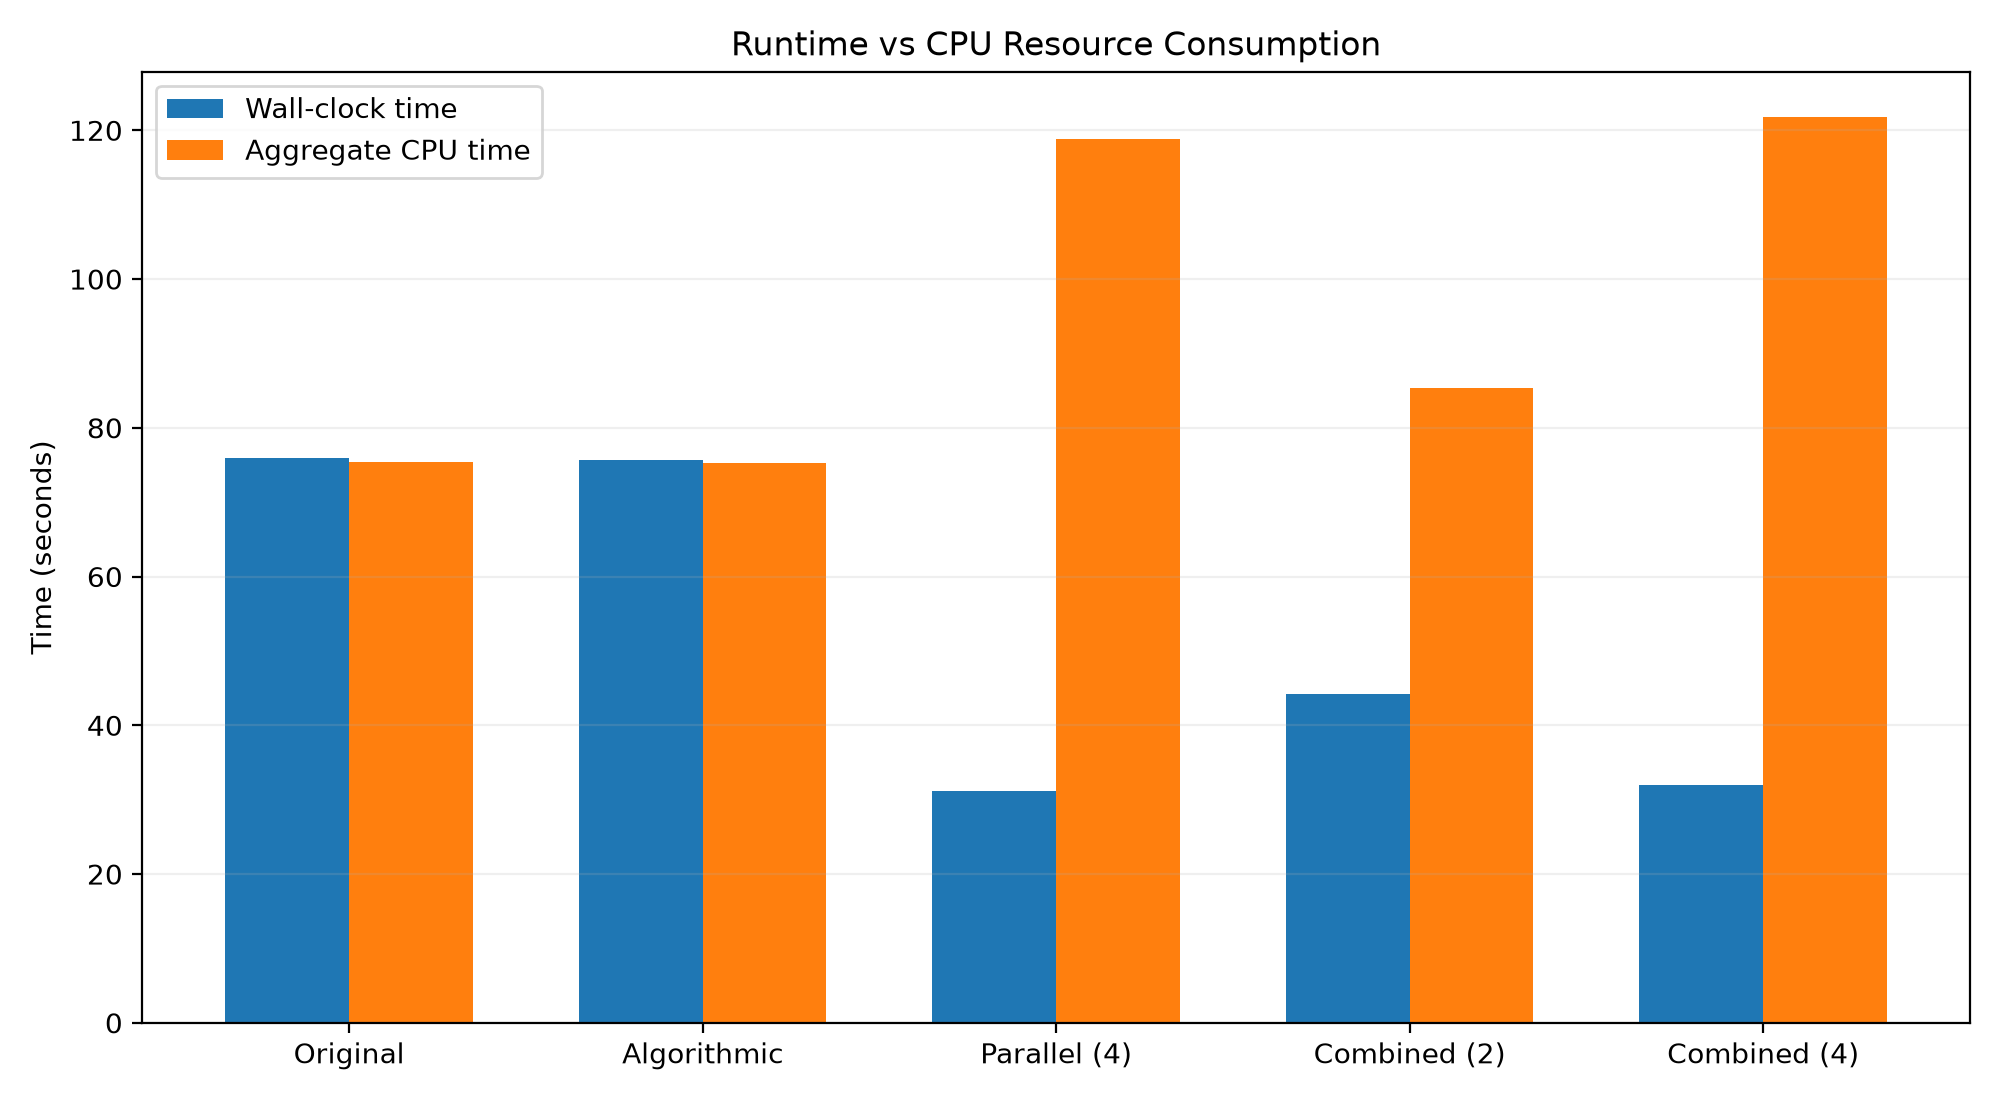
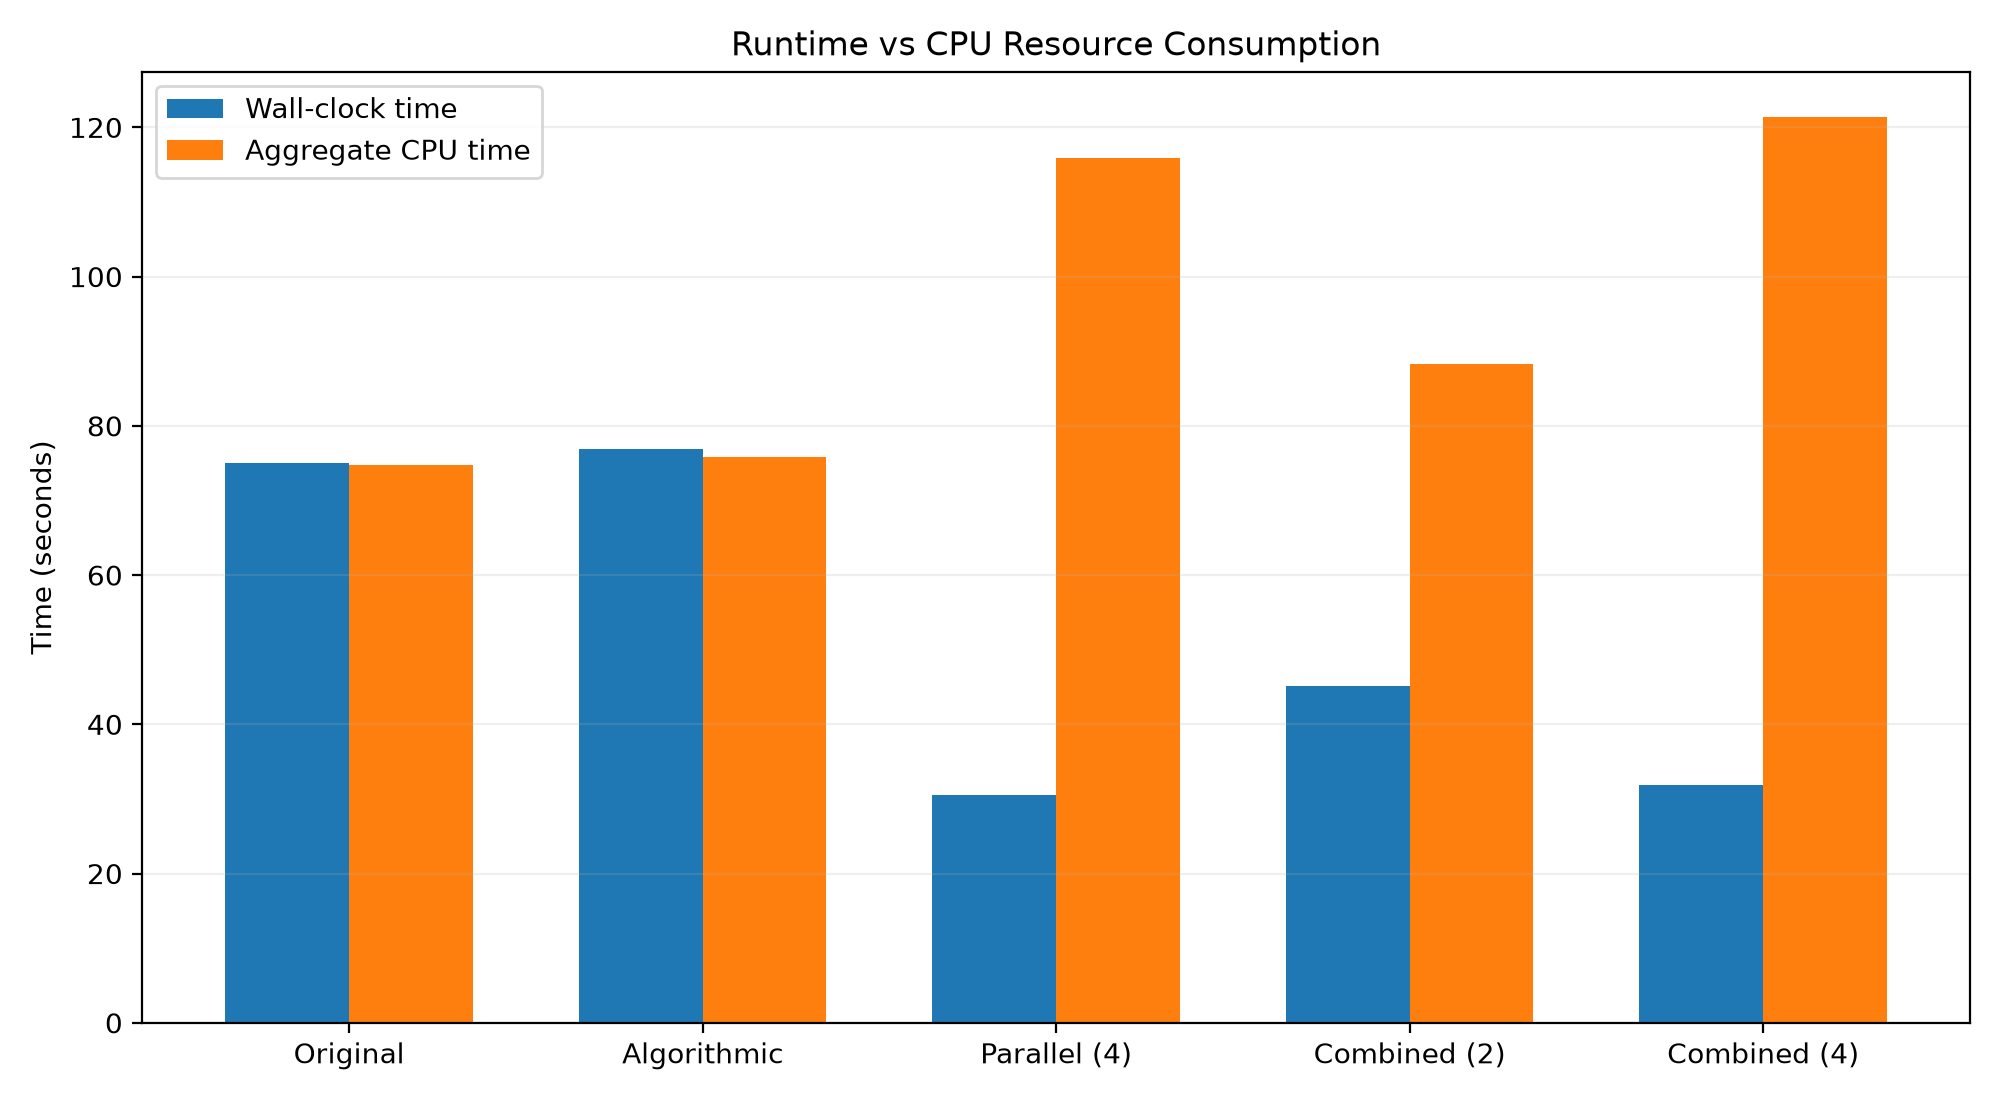
Fix combined lambda precomputation and finalize benchmarks

diff --git a/src/parallel.py b/src/parallel.py
@@ -44,6 +44,7 @@ def run_scenario(task):
             y=data["y"],
             k=k,
             sigma=sigma,
+            lam=lam,
         )
 
         success = exact_recovery(

diff --git a/README.md b/README.md
@@ -263,11 +263,11 @@ It was benchmarked three times using the same Python environment and numerical-l
 
 | Run | Wall-clock Runtime |
 |---|---:|
-| 1 | 77.36 s |
-| 2 | 75.58 s |
-| 3 | 75.87 s |
+| 1 | 74.75 s |
+| 2 | 75.07 s |
+| 3 | 76.88 s |
 
-**Median original baseline runtime: 75.87 seconds.**
+**Median original baseline runtime: 75.07 seconds.**
 
 These measurements cover the full simulation stage, not the subsequent analysis and figure-generation stages.
 
@@ -279,11 +279,11 @@ All configurations used the same Python environment, simulation design, master s
 
 | Configuration | Median Real (s) | Median CPU (s) | Speedup |
 |---|---:|---:|---:|
-| Original Serial | 75.87 | 75.42 | 1.000x |
-| Algorithmic-only | 75.73 | 75.23 | 1.002x |
-| Parallel-only (4 workers) | 31.19 | 118.88 | 2.433x |
-| Combined (2 workers) | 44.20 | 85.31 | 1.717x |
-| Combined (4 workers) | 31.93 | 121.75 | 2.376x |
+| Original Serial | 75.07 | 74.78 | 1.000x |
+| Algorithmic-only | 76.83 | 75.80 | 0.977x |
+| Parallel-only (4 workers) | 30.50 | 115.86 | 2.461x |
+| Combined (2 workers) | 45.10 | 88.25 | 1.665x |
+| Combined (4 workers) | 31.87 | 121.35 | 2.356x |
 
 Speedup is calculated as:
 
@@ -293,20 +293,20 @@ Speedup is calculated as:
 {\text{Optimized median runtime}}
 \]
 
-The combined four-worker implementation reduced the median wall-clock runtime from **75.87 to 31.93 seconds**.
+The combined four-worker implementation reduced the median wall-clock runtime from **75.07 to 31.87 seconds**.
 
 This corresponds to:
 
-- **2.38x speedup**
-- **57.9% reduction in elapsed runtime**
+- **2.36x speedup**
+- **57.5% reduction in elapsed runtime**
 
 Parallelization was the primary source of performance improvement.
 
-Lambda precomputation alone reduced median runtime from 75.87 to 75.73 seconds, an observed difference of only approximately 0.2%.
+Algorithmic-only execution had a median runtime of 76.83 seconds versus 75.07 seconds for the original. The observed 2.3% increase does not establish a systematic slowdown or a meaningful speedup.
 
 This small difference does not establish a meaningful standalone performance improvement.
 
-The parallel-only four-worker configuration had a slightly lower observed median runtime than the combined four-worker configuration. However, the difference is small relative to run-to-run variability, and the experiments were not fully randomized.
+The parallel-only four-worker configuration had a lower observed median runtime than the combined four-worker configuration (30.50 versus 31.87 seconds). However, the difference is small relative to run-to-run variability, and the experiments were not fully randomized.
 
 Consequently, the measurements do not establish that lambda precomputation negatively affects parallel performance.
 
@@ -332,14 +332,14 @@ Aggregate CPU time is computed as `user + sys` for each run.
 
 | Configuration | Median Wall-clock (s) | Median CPU Time (s) |
 |---|---:|---:|
-| Original Serial | 75.87 | 75.42 |
-| Combined (2 workers) | 44.20 | 85.31 |
-| Combined (4 workers) | 31.93 | 121.75 |
+| Original Serial | 75.07 | 74.78 |
+| Combined (2 workers) | 45.10 | 88.25 |
+| Combined (4 workers) | 31.87 | 121.35 |
 
 Compared with the original serial version:
 
-- **Two workers:** 41.7% shorter wall-clock time and approximately 13.1% more aggregate CPU time.
-- **Four workers:** 57.9% shorter wall-clock time and approximately 61.4% more aggregate CPU time.
+- **Two workers:** 39.9% shorter wall-clock time and approximately 18.0% more aggregate CPU time.
+- **Four workers:** 57.5% shorter wall-clock time and approximately 62.3% more aggregate CPU time.
 
 ![CPU resource trade-off](results/figures/controlled_cpu_tradeoff.png)
 
@@ -353,8 +353,8 @@ where \(T_1\) is the original serial median runtime and \(T_p\) is the median ru
 
 | Configuration | Speedup | Parallel Efficiency |
 |---|---:|---:|
-| Combined (2 workers) | 1.717x | 85.8% |
-| Combined (4 workers) | 2.376x | 59.4% |
+| Combined (2 workers) | 1.665x | 83.2% |
+| Combined (4 workers) | 2.356x | 58.9% |
 
 Four workers provided faster completion, whereas two workers provided better parallel efficiency and lower aggregate CPU consumption.
 
@@ -533,9 +533,9 @@ These exploratory results are not the primary basis for the final reported speed
 
 The project produced five main findings.
 
-1. **Parallelization provided the largest runtime improvement.** The combined four-worker implementation reduced median wall-clock runtime from 75.87 to 31.93 seconds, achieving approximately 2.38x speedup and a 57.9% reduction in elapsed time.
+1. **Parallelization provided the largest runtime improvement.** The combined four-worker implementation reduced median wall-clock runtime from 75.07 to 31.87 seconds, achieving approximately 2.36x speedup and a 57.5% reduction in elapsed time.
 
-2. **Algorithmic precomputation eliminated redundant work but produced negligible overall acceleration.** Lambda calculations decreased by 99.5%, while the controlled serial runtime remained approximately unchanged.
+2. **Algorithmic precomputation reduced redundant computation but did not demonstrate a meaningful end-to-end speedup.** Lambda calculations decreased by 99.5%, while the algorithmic-only median runtime was 76.83 seconds compared with 75.07 seconds for the original implementation. The observed difference does not establish a systematic performance slowdown.
 
 3. **Parallel execution introduced a resource trade-off.** The four-worker implementation completed the simulation fastest but required substantially greater aggregate CPU time. The two-worker version provided better parallel efficiency.
 

diff --git a/docs/OPTIMIZATION.md b/docs/OPTIMIZATION.md
@@ -224,11 +224,11 @@ Five configurations were evaluated:
 
 | Configuration | Median Real (s) | Mean Real (s) | Median CPU (s) | Speedup | Runtime Reduction |
 |---|---:|---:|---:|---:|---:|
-| Original | 75.87 | 76.270 | 75.42 | 1.000x | 0.0% |
-| Algorithmic-only | 75.73 | 75.727 | 75.23 | 1.002x | 0.2% |
-| Parallel-only (4) | 31.19 | 31.113 | 118.88 | 2.433x | 58.9% |
-| Combined (2) | 44.20 | 44.107 | 85.31 | 1.717x | 41.7% |
-| Combined (4) | 31.93 | 32.070 | 121.75 | 2.376x | 57.9% |
+| Original | 75.07 | 75.567 | 74.78 | 1.000x | 0.0% |
+| Algorithmic-only | 76.83 | 76.363 | 75.80 | 0.977x | -2.3% |
+| Parallel-only (4) | 30.50 | 30.477 | 115.86 | 2.461x | 59.4% |
+| Combined (2) | 45.10 | 45.260 | 88.25 | 1.665x | 39.9% |
+| Combined (4) | 31.87 | 31.980 | 121.35 | 2.356x | 57.5% |
 
 Speedup is defined as:
 
@@ -236,13 +236,13 @@ Speedup is defined as:
 S_p = \frac{T_{\mathrm{original}}}{T_p},
 \]
 
-where the original serial median runtime is 75.87 seconds.
+where the original serial median runtime is 75.07 seconds.
 
-The combined four-worker implementation achieved a 2.376x speedup, reducing median wall-clock runtime by approximately 57.9%.
+The combined four-worker implementation achieved a 2.356x speedup, reducing median wall-clock runtime by approximately 57.5%.
 
-Lambda precomputation alone produced only a 0.2% apparent runtime reduction, which is too small to establish a meaningful performance improvement.
+Algorithmic-only execution was 2.3% slower in observed median wall-clock time. This difference does not establish a systematic slowdown or a meaningful speedup.
 
-The parallel-only configuration achieved a slightly lower median runtime than the combined four-worker configuration (31.19 versus 31.93 seconds). This small difference does not establish that precomputation makes parallel execution slower.
+The parallel-only four-worker configuration achieved a lower observed median runtime than the corrected combined four-worker configuration (30.50 versus 31.87 seconds). However, the difference is small relative to run-to-run variability and does not establish a reliable additional speedup from lambda precomputation.
 
 The experiments were conducted sequentially rather than fully randomized. Consequently, temperature, operating-system scheduling, and background activity may have influenced the measurements.
 
@@ -281,14 +281,14 @@ Aggregate CPU time is calculated as `user + sys` for each run, followed by the m
 
 | Configuration | Median Wall Time (s) | Median CPU Time (s) |
 |---|---:|---:|
-| Original | 75.87 | 75.42 |
-| Combined (2 workers) | 44.20 | 85.31 |
-| Combined (4 workers) | 31.93 | 121.75 |
+| Original | 75.07 | 74.78 |
+| Combined (2 workers) | 45.10 | 88.25 |
+| Combined (4 workers) | 31.87 | 121.35 |
 
 Relative to the original serial implementation:
 
-- Two workers reduced median wall-clock time by 41.7%, while increasing aggregate CPU time by approximately 13.1%.
-- Four workers reduced median wall-clock time by 57.9%, while increasing aggregate CPU time by approximately 61.4%.
+- Two workers reduced median wall-clock time by 39.9%, while increasing aggregate CPU time by approximately 18.0%.
+- Four workers reduced median wall-clock time by 57.5%, while increasing aggregate CPU time by approximately 62.3%.
 
 Parallel efficiency is defined as:
 
@@ -302,10 +302,10 @@ Using the original serial median as \(T_1\), the approximate parallel efficienci
 
 | Configuration | Speedup | Parallel Efficiency |
 |---|---:|---:|
-| Combined (2 workers) | 1.717x | 85.8% |
-| Combined (4 workers) | 2.376x | 59.4% |
+| Combined (2 workers) | 1.665x | 83.2% |
+| Combined (4 workers) | 2.356x | 58.9% |
 
-The four-worker configuration is preferable when minimizing completion time is the primary objective.
+Among the combined configurations, four workers minimized completion time; the parallel-only four-worker configuration had the lowest observed median runtime overall.
 
 The two-worker configuration provides a better trade-off when aggregate CPU consumption and resource efficiency are important.
 
@@ -516,8 +516,8 @@ Precomputing the Lasso regularization parameter reduced the number of calls to `
 
 However, the controlled serial benchmark showed almost no change in overall runtime:
 
-- Original serial median: 75.87 seconds.
-- Algorithmic-only median: 75.73 seconds.
+- Original serial median: 75.07 seconds.
+- Algorithmic-only median: 76.83 seconds.
 
 The observed difference was too small to establish a meaningful improvement.
 
@@ -527,15 +527,15 @@ This result illustrates Amdahl's Law: optimizing a small fraction of total execu
 
 Scenario-level parallelization allowed independent Monte Carlo simulations to execute concurrently.
 
-The combined four-worker implementation reduced median wall-clock runtime from 75.87 to 31.93 seconds.
+The combined four-worker implementation reduced median wall-clock runtime from 75.07 to 31.87 seconds.
 
-This represents approximately 2.38x speedup and a 57.9% reduction in elapsed time.
+This represents approximately 2.36x speedup and a 57.5% reduction in elapsed time.
 
 The optimization preserved the statistical simulation design and produced results consistent with the original implementation.
 
 ### 9.4 Faster Execution Can Require More CPU Resources
 
-The combined four-worker implementation increased median aggregate CPU time from 75.42 to 121.75 seconds.
+The combined four-worker implementation increased median aggregate CPU time from 74.78 to 121.35 seconds.
 
 Two workers provided a smaller speedup but substantially better parallel efficiency.
 
